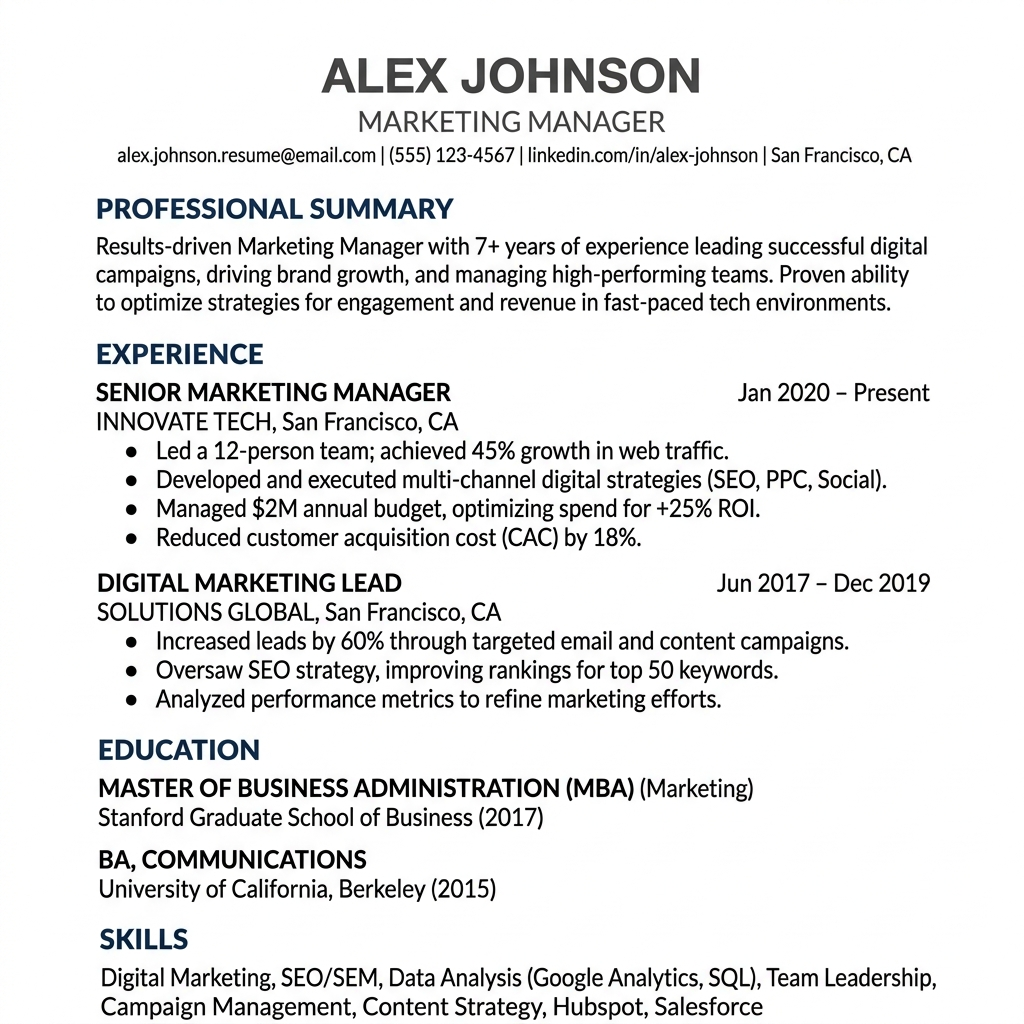
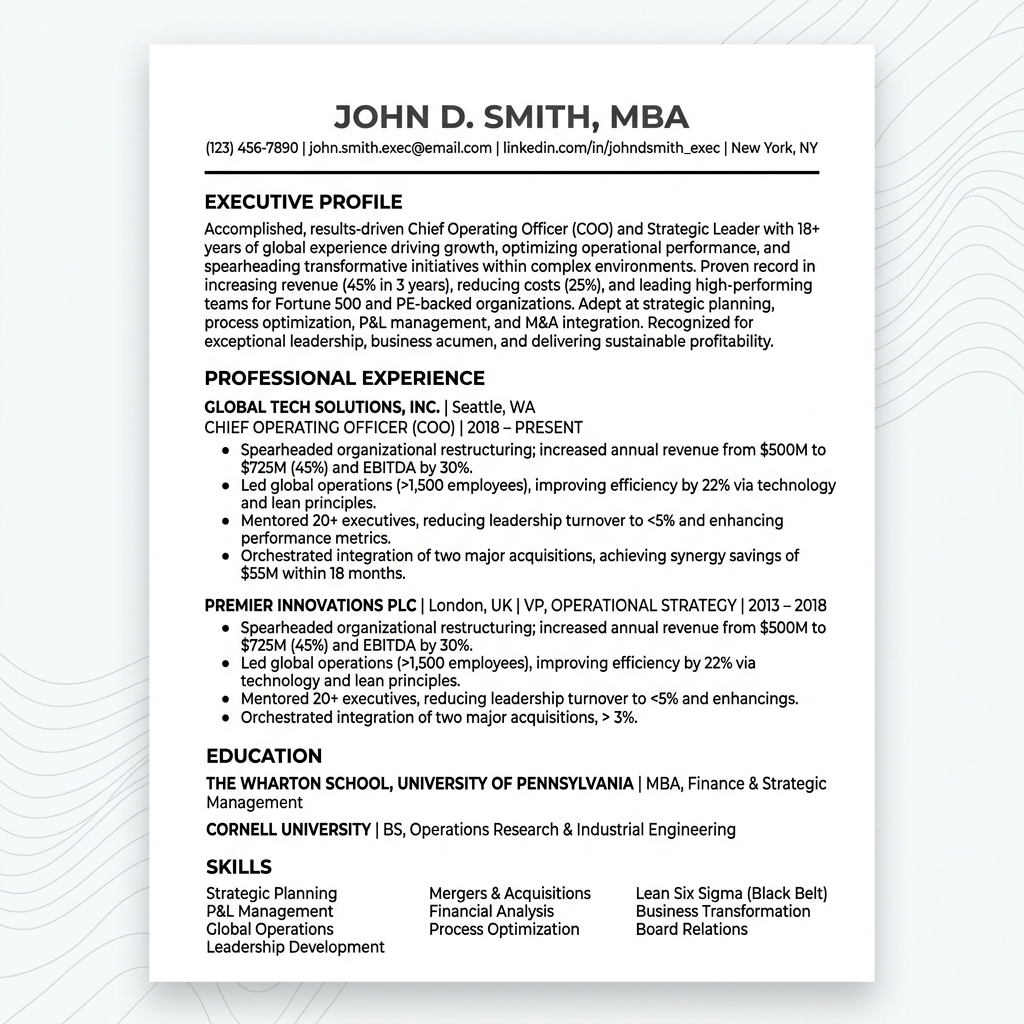
Replace 3D stack with 3 perfect ATS templates showcases

Changed region(s): [[0.0625, 0.0312, 0.9688, 1.0], [0.0312, 0.8125, 0.0625, 0.8438]]

diff --git a/src/components/WhyAts.jsx b/src/components/WhyAts.jsx
@@ -14,7 +14,7 @@ export default function WhyAts() {
             <strong>75%</strong> of resumes are rejected by an ATS before a human ever reads them.
           </p>
           <p style={{ marginTop: '1.5rem' }}>
-            Hover to see the transformation. We strip away the unreadable elements while maintaining an elegant, premium look that recruiters love.
+            Hover to explore our portfolio. We build strictly compliant, minimalist resumes that glide through automated filters while retaining a pristine, premium aesthetic when they land on a recruiter's desk.
           </p>
         </div>
 
@@ -23,7 +23,7 @@ export default function WhyAts() {
             <div className="resume-card resume-card-plain" style={{ padding: '0', overflow: 'hidden', border: '1px solid #ccc' }}>
                <img 
                  src="/mockup1.png" 
-                 alt="Unorganized plain resume" 
+                 alt="Pristine Minimalist ATS Resume" 
                  style={{ width: '100%', height: '100%', objectFit: 'cover', display: 'block', backgroundColor: '#fdfbf7' }} 
                />
             </div>
@@ -31,15 +31,15 @@ export default function WhyAts() {
             <div className="resume-card resume-card-blue" style={{ display: 'flex', padding: 0, border: '1px solid #bbb', overflow: 'hidden' }}>
                <img 
                  src="/mockup2.png" 
-                 alt="Complex two-column resume format" 
-                 style={{ width: '100%', height: '100%', objectFit: 'cover', display: 'block', backgroundColor: '#2c3e50' }} 
+                 alt="High-End Modern ATS Resume" 
+                 style={{ width: '100%', height: '100%', objectFit: 'cover', display: 'block', backgroundColor: '#ffffff' }} 
                />
             </div>
 
-            <div className="resume-card resume-card-ats" style={{ padding: 0, overflow: 'hidden' }}>
+            <div className="resume-card resume-card-ats" style={{ padding: 0, overflow: 'hidden', border: '1px solid #ccc' }}>
               <img 
                 src="/mockup3.png" 
-                alt="ATS Friendly Resume" 
+                alt="Executive Level ATS Friendly Resume" 
                 style={{ width: '100%', height: '100%', objectFit: 'cover', display: 'block' }} 
               />
             </div>
